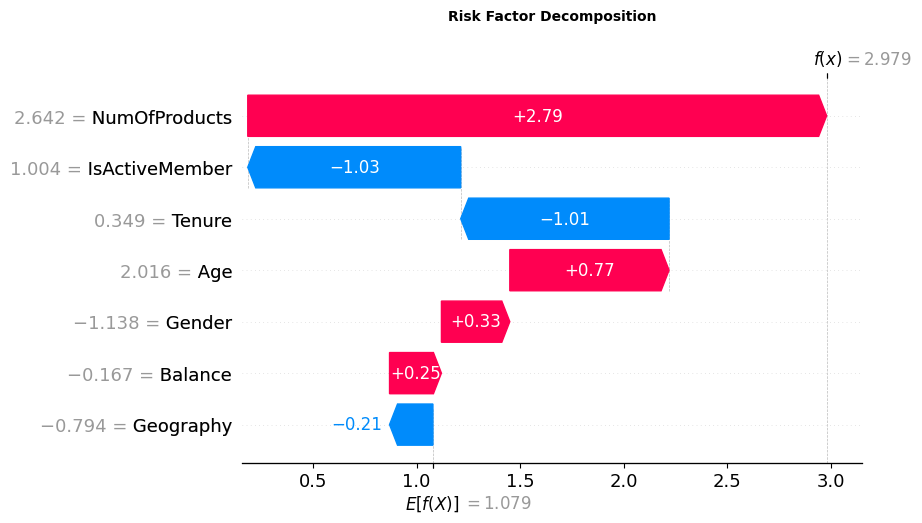
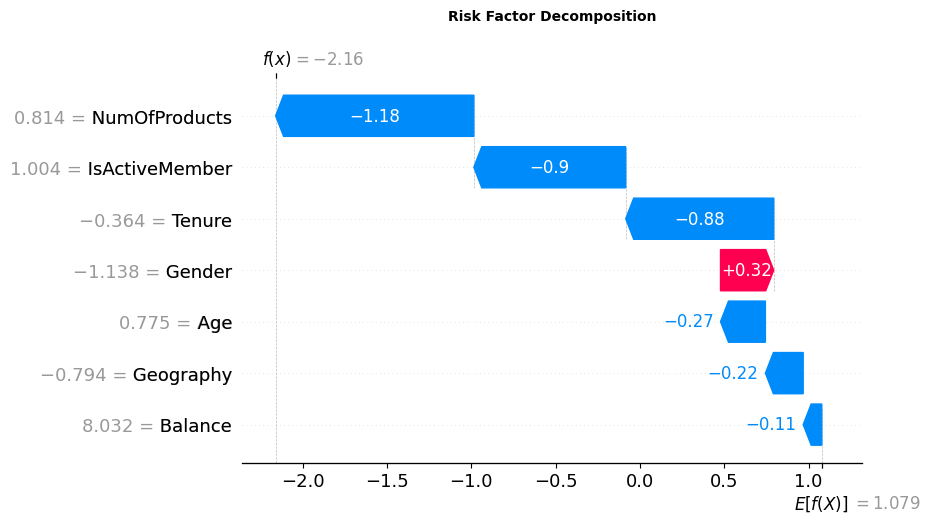
fix: default IsActiveMember to 0 when checkbox is unchecked

diff --git a/templates/index.html b/templates/index.html
@@ -161,7 +161,6 @@
         <a class="nav-link" id="nav-decomp" onclick="showSection('risk-decomposition',this)">
             <span class="nav-icon"><i class="fa-solid fa-chart-gantt"></i></span>
             Risk Decomposition
-            <span style="margin-left:auto;background:var(--accent-gold);color:#0d1b2a;font-size:8px;font-weight:800;padding:2px 7px;border-radius:100px;letter-spacing:0.4px;">NEW</span>
         </a>
         {% endif %}
         <a class="nav-link" id="nav-bench" onclick="showSection('model-comparison',this)">

diff --git a/app.py b/app.py
@@ -177,10 +177,13 @@ def predict():
         # 1. Validation
         feature_list = []
         for f in FEATURE_NAMES:
-            val = request.form.get(f)
-            if val is None or val.strip() == "":
-                return render_template('index.html', error_msg="All fields are required.",
-                                       history=history, inputs=request.form)
+            if f == 'IsActiveMember':
+                val = request.form.get(f, '0')  # unchecked checkbox = 0
+            else:
+                val = request.form.get(f)
+                if val is None or val.strip() == "":
+                    return render_template('index.html', error_msg="All fields are required.",
+                                           history=history, inputs=request.form)
             feature_list.append(float(val))
 
         # 2. Process
